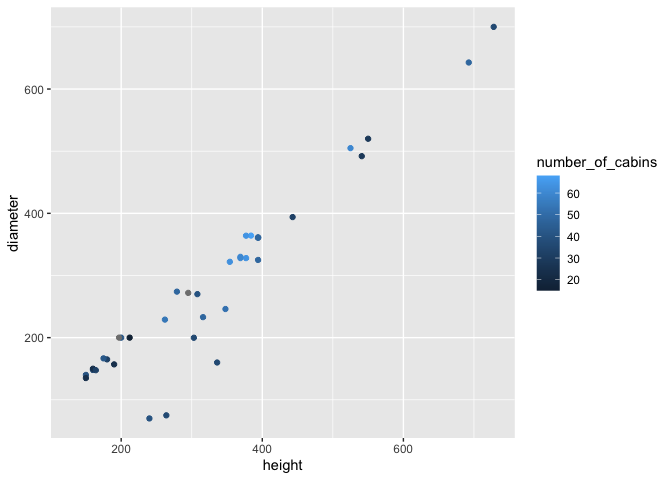
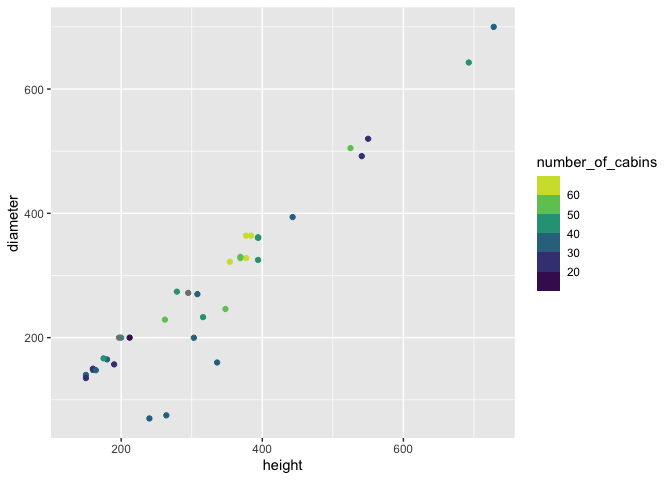
update readme

diff --git a/README.md b/README.md
@@ -19,6 +19,8 @@ remotes::install_github("emilhvitfeldt/elevators")
 
 ## Example
 
+This data set contains a number of interesting variables yo play with.
+
 ``` r
 library(ferriswheels)
 str(wheels)
@@ -46,12 +48,88 @@ str(wheels)
 #>  $ turns                : num  4 1 NA NA NA 1 1 NA 3 NA ...
 ```
 
+For starters, we can look at the diameter and height, colored by the
+number of cabins
+
 ``` r
-library(ggplot2)
+library(tidyverse)
 
 wheels |>
   ggplot(aes(height, diameter, color = number_of_cabins)) +
-  geom_point()
+  geom_point() +
+  scale_color_viridis_b()
 ```
 
 <img src="man/figures/README-unnamed-chunk-2-1.png" width="100%" />
+
+If we look at the height of the Ferris wheels as a function of opening
+date, we see that in the most recent time that the height have gotten
+larger and larger.
+
+``` r
+wheels |>
+  ggplot(aes(opened, height)) +
+  geom_point()
+```
+
+<img src="man/figures/README-unnamed-chunk-3-1.png" width="100%" />
+
+Now image we want to get a feel for how these Ferris wheels look. We can
+construct them ourselves.
+
+``` r
+library(ggforce)
+
+# We need complete data for these calculations
+complete_wheels <- wheels |>
+  select(name, height, diameter, number_of_cabins) |>
+  drop_na()
+
+set.seed(1234)
+selected_complete_wheels <- complete_wheels |>
+  # We have limited plotting space, so we are filtering to only include the
+  # ferris wheels with the best spread out carts
+  slice_max(order_by = diameter / number_of_cabins, n = 6, with_ties = FALSE)
+
+# We are creating a seperate data.frame for the position of the carts
+carts <- selected_complete_wheels |>
+  group_by(name) |>
+  summarise(
+    cart = seq_len(number_of_cabins),
+    # Get x and y for the carts
+    cart_x = cos(cart / number_of_cabins * 2 * pi),
+    cart_y = sin(cart / number_of_cabins * 2 * pi),
+    # Size them to be the right distance from the center
+    cart_x = cart_x * (diameter / 2),
+    cart_y = cart_y * (diameter / 2),
+    # Make sure the carts are raised enough
+    cart_y = cart_y + height - diameter / 2,
+    # Lower the carts just a bit so it appears they are hanging
+    cart_y = cart_y - 12.5,
+    cart_color = as.character(cart %% 3),
+    .groups = "drop"
+  )
+
+selected_complete_wheels |>
+  ggplot() +
+  # Grass
+  geom_abline(slope = 0, intercept = 0, color = "darkgreen") +
+  ylim(0, NA) +
+  # Ferris wheel circle
+  geom_circle(aes(x0 = 0, y0 = height - diameter / 2, r = diameter / 2)) +
+  # Left leg
+  geom_segment(aes(x = -(height - diameter / 2)/2, xend = 0,
+                   yend = height - diameter / 2, y = 0)) +
+  # right leg
+  geom_segment(aes(x = (height - diameter / 2)/2, xend = 0,
+                   yend = height - diameter / 2, y = 0)) +
+  # Carts
+  geom_point(aes(cart_x, cart_y, fill = cart_color), data = carts, shape = 24) +
+  facet_wrap(~name) +
+  coord_fixed() +
+  theme_minimal() +
+  guides(fill = "none") +
+  labs(y = NULL, x = NULL)
+```
+
+<img src="man/figures/README-unnamed-chunk-4-1.png" width="100%" />
